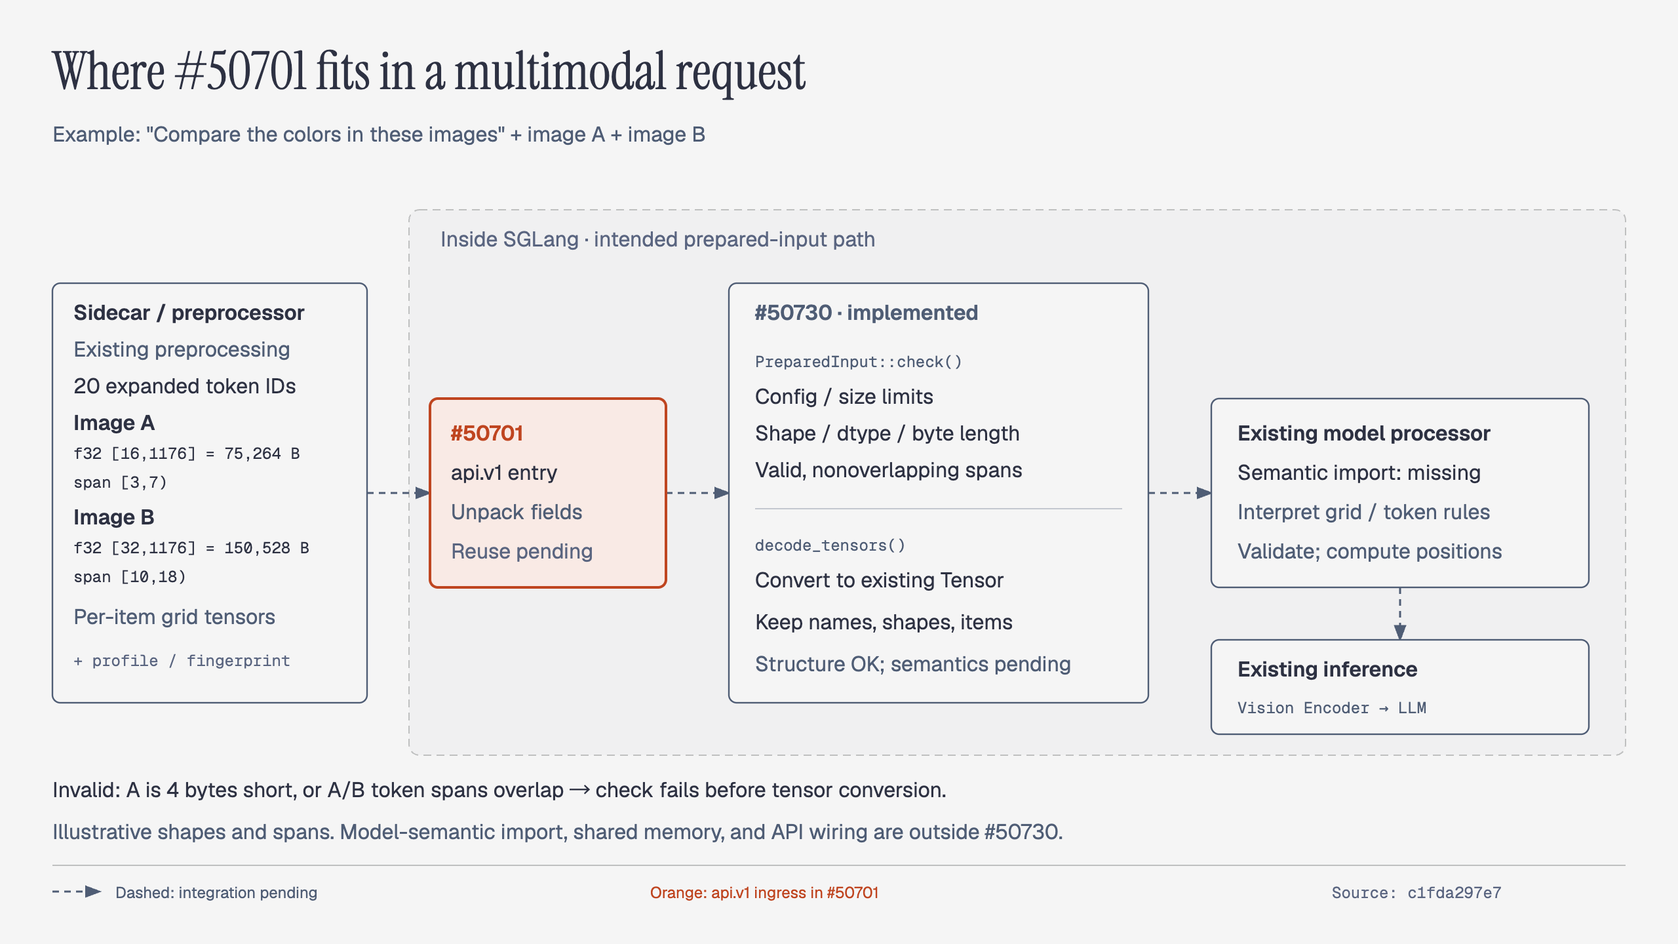
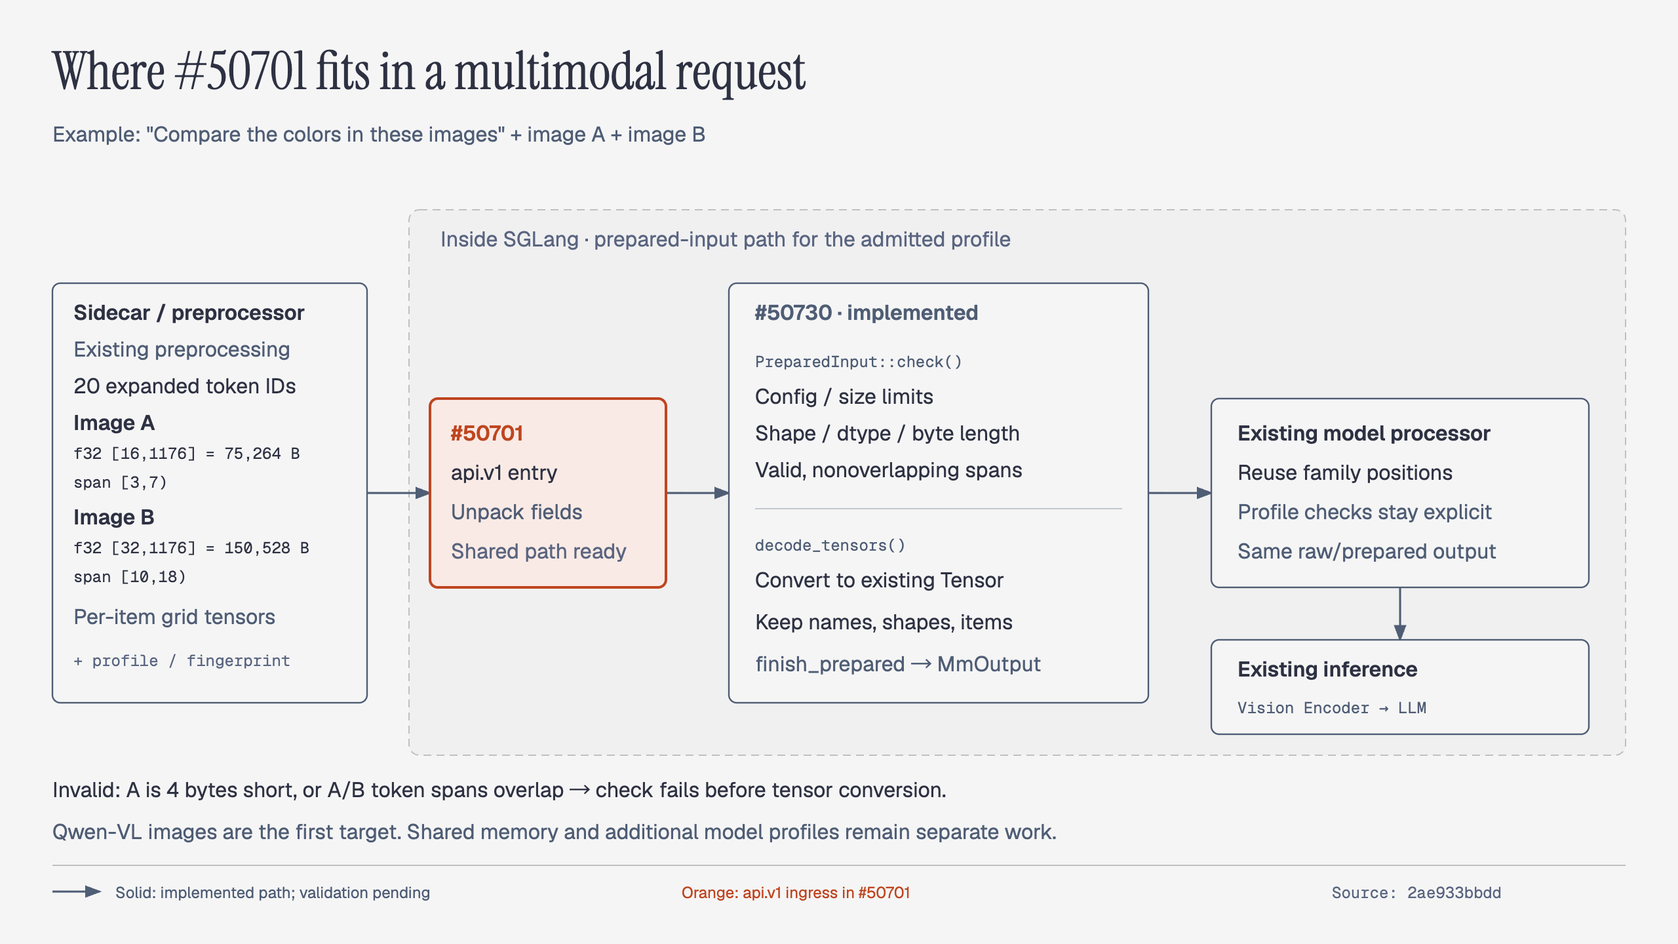
docs: Show shared processor completion in prepared input figures

diff --git a/assets/prepared-multimodal/50730-position-en.html b/assets/prepared-multimodal/50730-position-en.html
@@ -1,17 +1,17 @@
 <!DOCTYPE html><html lang="en"><head><meta charset="utf-8"><meta name="viewport" content="width=device-width,initial-scale=1"><title>Where #50730 fits in a multimodal request</title><link href="https://fonts.googleapis.com/css2?family=Instrument+Serif:ital@0;1&family=Geist:wght@400;500;600&family=Geist+Mono:wght@400;500;600&family=Noto+Serif:ital@0;1&family=Noto+Sans+KR:wght@400;500;600&family=Noto+Serif+KR:wght@400&family=Noto+Sans+TC:wght@400;500;600&family=Noto+Serif+TC:wght@400&display=swap" rel="stylesheet">
 <style>*,*::before,*::after{box-sizing:border-box}body{margin:0;padding:24px;background:#f5f5f5;color:#2d3142;font-family:'Geist','PingFang SC',sans-serif}.frame{max-width:1280px;margin:auto}.diagram-container{width:100%;overflow-x:auto}svg{display:block;width:100%;min-width:1280px}@media print{body{padding:0}.diagram-container{overflow-x:visible}svg{min-width:0}}</style></head><body><main class="frame"><div class="diagram-container"><svg id="50730-position-en-root" viewBox="0 0 1280 720" xmlns="http://www.w3.org/2000/svg" role="img" aria-labelledby="50730-position-en-title 50730-position-en-desc">
 <title id="50730-position-en-title">Where #50730 fits in a multimodal request</title>
-<desc id="50730-position-en-desc">A text-and-two-images request illustrates common structural checks and tensor decoding; dashed connections and model-semantic import are not implemented yet.</desc>
+<desc id="50730-position-en-desc">A two-image request passes through api.v1, shared tensor checks and the generic completion bridge, then the configured processor positions and common inference handoff; runtime validation is pending.</desc>
 <defs><marker id="arrow" markerWidth="8" markerHeight="6" refX="7" refY="3" orient="auto"><polygon points="0 0,8 3,0 6" fill="#4f5d75"/></marker></defs>
 <rect width="1280" height="720" fill="#f5f5f5"/>
 <text x="40" y="68" fill="#2d3142" font-family="&#x27;Instrument Serif&#x27;, &#x27;Noto Serif&#x27;, &#x27;Songti SC&#x27;, serif" font-size="40" font-weight="400">Where #50730 fits in a multimodal request</text>
 <text x="40" y="108" fill="#4f5d75" font-family="&#x27;Geist&#x27;, &#x27;PingFang SC&#x27;, &#x27;Noto Sans SC&#x27;, &#x27;Microsoft YaHei&#x27;, sans-serif" font-size="16" font-weight="400">Example: "Compare the colors in these images" + image A + image B</text>
 <rect x="312" y="160" width="928" height="416" rx="8" fill="#f0f0f1" stroke="#bfc0c0" stroke-dasharray="6 4"/>
-<text x="336" y="188" fill="#5a6580" font-family="&#x27;Geist&#x27;, &#x27;PingFang SC&#x27;, &#x27;Noto Sans SC&#x27;, &#x27;Microsoft YaHei&#x27;, sans-serif" font-size="16" font-weight="400">Inside SGLang · intended prepared-input path</text>
-<line x1="280" y1="376" x2="328" y2="376" stroke="#4f5d75" stroke-width="1.6" stroke-dasharray="5 4" marker-end="url(#arrow)"/>
-<line x1="508" y1="376" x2="556" y2="376" stroke="#4f5d75" stroke-width="1.6" stroke-dasharray="5 4" marker-end="url(#arrow)"/>
-<line x1="876" y1="376" x2="924" y2="376" stroke="#4f5d75" stroke-width="1.6" stroke-dasharray="5 4" marker-end="url(#arrow)"/>
-<line x1="1068" y1="448" x2="1068" y2="488" stroke="#4f5d75" stroke-width="1.6" stroke-dasharray="5 4" marker-end="url(#arrow)"/>
+<text x="336" y="188" fill="#5a6580" font-family="&#x27;Geist&#x27;, &#x27;PingFang SC&#x27;, &#x27;Noto Sans SC&#x27;, &#x27;Microsoft YaHei&#x27;, sans-serif" font-size="16" font-weight="400">Inside SGLang · prepared-input path for the admitted profile</text>
+<line x1="280" y1="376" x2="328" y2="376" stroke="#4f5d75" stroke-width="1.6" marker-end="url(#arrow)"/>
+<line x1="508" y1="376" x2="556" y2="376" stroke="#4f5d75" stroke-width="1.6" marker-end="url(#arrow)"/>
+<line x1="876" y1="376" x2="924" y2="376" stroke="#4f5d75" stroke-width="1.6" marker-end="url(#arrow)"/>
+<line x1="1068" y1="448" x2="1068" y2="488" stroke="#4f5d75" stroke-width="1.6" marker-end="url(#arrow)"/>
 <rect id="external-preprocessor" data-node-id="external-preprocessor" x="40" y="216" width="240" height="320" rx="6" fill="#f5f5f5" stroke="#4f5d75" stroke-width="1.2"/>
 <text x="56" y="244" fill="#2d3142" font-family="&#x27;Geist&#x27;, &#x27;PingFang SC&#x27;, &#x27;Noto Sans SC&#x27;, &#x27;Microsoft YaHei&#x27;, sans-serif" font-size="16" font-weight="600">Sidecar / preprocessor</text>
 <text x="56" y="272" fill="#4f5d75" font-family="&#x27;Geist&#x27;, &#x27;PingFang SC&#x27;, &#x27;Noto Sans SC&#x27;, &#x27;Microsoft YaHei&#x27;, sans-serif" font-size="16" font-weight="400">Existing preprocessing</text>
@@ -28,7 +28,7 @@
 <text x="344" y="336" fill="#2d3142" font-family="&#x27;Geist&#x27;, &#x27;PingFang SC&#x27;, &#x27;Noto Sans SC&#x27;, &#x27;Microsoft YaHei&#x27;, sans-serif" font-size="16" font-weight="600">#50701</text>
 <text x="344" y="366" fill="#2d3142" font-family="&#x27;Geist&#x27;, &#x27;PingFang SC&#x27;, &#x27;Noto Sans SC&#x27;, &#x27;Microsoft YaHei&#x27;, sans-serif" font-size="16" font-weight="400">api.v1 entry</text>
 <text x="344" y="396" fill="#4f5d75" font-family="&#x27;Geist&#x27;, &#x27;PingFang SC&#x27;, &#x27;Noto Sans SC&#x27;, &#x27;Microsoft YaHei&#x27;, sans-serif" font-size="16" font-weight="400">Unpack fields</text>
-<text x="344" y="426" fill="#5a6580" font-family="&#x27;Geist&#x27;, &#x27;PingFang SC&#x27;, &#x27;Noto Sans SC&#x27;, &#x27;Microsoft YaHei&#x27;, sans-serif" font-size="16" font-weight="400">Not wired yet</text>
+<text x="344" y="426" fill="#5a6580" font-family="&#x27;Geist&#x27;, &#x27;PingFang SC&#x27;, &#x27;Noto Sans SC&#x27;, &#x27;Microsoft YaHei&#x27;, sans-serif" font-size="16" font-weight="400">Shared path ready</text>
 <rect id="prepared-foundation" data-node-id="prepared-foundation" x="556" y="216" width="320" height="320" rx="6" fill="#f9eae5" stroke="#bf4520" stroke-width="2"/>
 <text x="576" y="244" fill="#bf4520" font-family="&#x27;Geist&#x27;, &#x27;PingFang SC&#x27;, &#x27;Noto Sans SC&#x27;, &#x27;Microsoft YaHei&#x27;, sans-serif" font-size="16" font-weight="600">#50730 · implemented</text>
 <text x="576" y="280" fill="#bf4520" font-family="&#x27;Geist Mono&#x27;, &#x27;SFMono-Regular&#x27;, monospace" font-size="12" font-weight="400">PreparedInput::check()</text>
@@ -39,20 +39,20 @@
 <text x="576" y="420" fill="#bf4520" font-family="&#x27;Geist Mono&#x27;, &#x27;SFMono-Regular&#x27;, monospace" font-size="12" font-weight="400">decode_tensors()</text>
 <text x="576" y="448" fill="#2d3142" font-family="&#x27;Geist&#x27;, &#x27;PingFang SC&#x27;, &#x27;Noto Sans SC&#x27;, &#x27;Microsoft YaHei&#x27;, sans-serif" font-size="16" font-weight="400">Convert to existing Tensor</text>
 <text x="576" y="480" fill="#2d3142" font-family="&#x27;Geist&#x27;, &#x27;PingFang SC&#x27;, &#x27;Noto Sans SC&#x27;, &#x27;Microsoft YaHei&#x27;, sans-serif" font-size="16" font-weight="400">Keep names, shapes, items</text>
-<text x="576" y="512" fill="#bf4520" font-family="&#x27;Geist&#x27;, &#x27;PingFang SC&#x27;, &#x27;Noto Sans SC&#x27;, &#x27;Microsoft YaHei&#x27;, sans-serif" font-size="16" font-weight="400">Structure OK; semantics pending</text>
+<text x="576" y="512" fill="#bf4520" font-family="&#x27;Geist&#x27;, &#x27;PingFang SC&#x27;, &#x27;Noto Sans SC&#x27;, &#x27;Microsoft YaHei&#x27;, sans-serif" font-size="16" font-weight="400">finish_prepared → MmOutput</text>
 <rect id="processor-semantic-import" data-node-id="processor-semantic-import" x="924" y="304" width="288" height="144" rx="6" fill="#f5f5f5" stroke="#4f5d75" stroke-width="1.2"/>
 <text x="944" y="336" fill="#2d3142" font-family="&#x27;Geist&#x27;, &#x27;PingFang SC&#x27;, &#x27;Noto Sans SC&#x27;, &#x27;Microsoft YaHei&#x27;, sans-serif" font-size="16" font-weight="600">Existing model processor</text>
-<text x="944" y="366" fill="#2d3142" font-family="&#x27;Geist&#x27;, &#x27;PingFang SC&#x27;, &#x27;Noto Sans SC&#x27;, &#x27;Microsoft YaHei&#x27;, sans-serif" font-size="16" font-weight="400">Semantic import: missing</text>
-<text x="944" y="396" fill="#4f5d75" font-family="&#x27;Geist&#x27;, &#x27;PingFang SC&#x27;, &#x27;Noto Sans SC&#x27;, &#x27;Microsoft YaHei&#x27;, sans-serif" font-size="16" font-weight="400">Interpret grid / token rules</text>
-<text x="944" y="426" fill="#4f5d75" font-family="&#x27;Geist&#x27;, &#x27;PingFang SC&#x27;, &#x27;Noto Sans SC&#x27;, &#x27;Microsoft YaHei&#x27;, sans-serif" font-size="16" font-weight="400">Validate; compute positions</text>
+<text x="944" y="366" fill="#2d3142" font-family="&#x27;Geist&#x27;, &#x27;PingFang SC&#x27;, &#x27;Noto Sans SC&#x27;, &#x27;Microsoft YaHei&#x27;, sans-serif" font-size="16" font-weight="400">Reuse family positions</text>
+<text x="944" y="396" fill="#4f5d75" font-family="&#x27;Geist&#x27;, &#x27;PingFang SC&#x27;, &#x27;Noto Sans SC&#x27;, &#x27;Microsoft YaHei&#x27;, sans-serif" font-size="16" font-weight="400">Profile checks stay explicit</text>
+<text x="944" y="426" fill="#4f5d75" font-family="&#x27;Geist&#x27;, &#x27;PingFang SC&#x27;, &#x27;Noto Sans SC&#x27;, &#x27;Microsoft YaHei&#x27;, sans-serif" font-size="16" font-weight="400">Same raw/prepared output</text>
 <rect id="existing-inference" data-node-id="existing-inference" x="924" y="488" width="288" height="72" rx="6" fill="#f5f5f5" stroke="#4f5d75" stroke-width="1.2"/>
 <text x="944" y="516" fill="#2d3142" font-family="&#x27;Geist&#x27;, &#x27;PingFang SC&#x27;, &#x27;Noto Sans SC&#x27;, &#x27;Microsoft YaHei&#x27;, sans-serif" font-size="16" font-weight="600">Existing inference</text>
 <text x="944" y="544" fill="#4f5d75" font-family="&#x27;Geist Mono&#x27;, &#x27;SFMono-Regular&#x27;, monospace" font-size="12" font-weight="400">Vision Encoder → LLM</text>
 <text x="40" y="608" fill="#2d3142" font-family="&#x27;Geist&#x27;, &#x27;PingFang SC&#x27;, &#x27;Noto Sans SC&#x27;, &#x27;Microsoft YaHei&#x27;, sans-serif" font-size="16" font-weight="400">Invalid: A is 4 bytes short, or A/B token spans overlap → check fails before tensor conversion.</text>
-<text x="40" y="640" fill="#4f5d75" font-family="&#x27;Geist&#x27;, &#x27;PingFang SC&#x27;, &#x27;Noto Sans SC&#x27;, &#x27;Microsoft YaHei&#x27;, sans-serif" font-size="16" font-weight="400">Illustrative shapes and spans. Model-semantic import, shared memory, and API wiring are outside #50730.</text>
+<text x="40" y="640" fill="#4f5d75" font-family="&#x27;Geist&#x27;, &#x27;PingFang SC&#x27;, &#x27;Noto Sans SC&#x27;, &#x27;Microsoft YaHei&#x27;, sans-serif" font-size="16" font-weight="400">Qwen-VL images are the first target. Shared memory and additional model profiles remain separate work.</text>
 <line x1="40" y1="660" x2="1240" y2="660" stroke="#bfc0c0"/>
-<line x1="40" y1="680" x2="76" y2="680" stroke="#4f5d75" stroke-width="1.6" stroke-dasharray="5 4" marker-end="url(#arrow)"/>
-<text x="88" y="685" fill="#4f5d75" font-family="&#x27;Geist&#x27;, &#x27;PingFang SC&#x27;, &#x27;Noto Sans SC&#x27;, &#x27;Microsoft YaHei&#x27;, sans-serif" font-size="12" font-weight="400">Dashed: integration pending</text>
-<text x="496" y="685" fill="#bf4520" font-family="&#x27;Geist&#x27;, &#x27;PingFang SC&#x27;, &#x27;Noto Sans SC&#x27;, &#x27;Microsoft YaHei&#x27;, sans-serif" font-size="12" font-weight="400">Orange: implemented library; CPU checks passed</text>
-<text x="1016" y="685" fill="#5a6580" font-family="&#x27;Geist Mono&#x27;, &#x27;SFMono-Regular&#x27;, monospace" font-size="12" font-weight="400">Source: 0910b7ff52</text>
+<line x1="40" y1="680" x2="76" y2="680" stroke="#4f5d75" stroke-width="1.6" marker-end="url(#arrow)"/>
+<text x="88" y="685" fill="#4f5d75" font-family="&#x27;Geist&#x27;, &#x27;PingFang SC&#x27;, &#x27;Noto Sans SC&#x27;, &#x27;Microsoft YaHei&#x27;, sans-serif" font-size="12" font-weight="400">Solid: implemented path; validation pending</text>
+<text x="520" y="685" fill="#bf4520" font-family="&#x27;Geist&#x27;, &#x27;PingFang SC&#x27;, &#x27;Noto Sans SC&#x27;, &#x27;Microsoft YaHei&#x27;, sans-serif" font-size="12" font-weight="400">Orange: common checks + completion bridge</text>
+<text x="1016" y="685" fill="#5a6580" font-family="&#x27;Geist Mono&#x27;, &#x27;SFMono-Regular&#x27;, monospace" font-size="12" font-weight="400">Source: 386247f28a</text>
 </svg></div></main></body></html>

diff --git a/assets/prepared-multimodal/50701-position-en.html b/assets/prepared-multimodal/50701-position-en.html
@@ -1,17 +1,17 @@
 <!DOCTYPE html><html lang="en"><head><meta charset="utf-8"><meta name="viewport" content="width=device-width,initial-scale=1"><title>Where #50701 fits in a multimodal request</title><link href="https://fonts.googleapis.com/css2?family=Instrument+Serif:ital@0;1&family=Geist:wght@400;500;600&family=Geist+Mono:wght@400;500;600&family=Noto+Serif:ital@0;1&family=Noto+Sans+KR:wght@400;500;600&family=Noto+Serif+KR:wght@400&family=Noto+Sans+TC:wght@400;500;600&family=Noto+Serif+TC:wght@400&display=swap" rel="stylesheet">
 <style>*,*::before,*::after{box-sizing:border-box}body{margin:0;padding:24px;background:#f5f5f5;color:#2d3142;font-family:'Geist','PingFang SC',sans-serif}.frame{max-width:1280px;margin:auto}.diagram-container{width:100%;overflow-x:auto}svg{display:block;width:100%;min-width:1280px}@media print{body{padding:0}.diagram-container{overflow-x:visible}svg{min-width:0}}</style></head><body><main class="frame"><div class="diagram-container"><svg id="50701-position-en-root" viewBox="0 0 1280 720" xmlns="http://www.w3.org/2000/svg" role="img" aria-labelledby="50701-position-en-title 50701-position-en-desc">
 <title id="50701-position-en-title">Where #50701 fits in a multimodal request</title>
-<desc id="50701-position-en-desc">A text-and-two-images request highlights the api.v1 ingress; reuse of the common structural library and processor-semantic import remain pending.</desc>
+<desc id="50701-position-en-desc">A two-image request passes through api.v1, shared tensor checks and the generic completion bridge, then the configured processor positions and common inference handoff; runtime validation is pending.</desc>
 <defs><marker id="arrow" markerWidth="8" markerHeight="6" refX="7" refY="3" orient="auto"><polygon points="0 0,8 3,0 6" fill="#4f5d75"/></marker></defs>
 <rect width="1280" height="720" fill="#f5f5f5"/>
 <text x="40" y="68" fill="#2d3142" font-family="&#x27;Instrument Serif&#x27;, &#x27;Noto Serif&#x27;, &#x27;Songti SC&#x27;, serif" font-size="40" font-weight="400">Where #50701 fits in a multimodal request</text>
 <text x="40" y="108" fill="#4f5d75" font-family="&#x27;Geist&#x27;, &#x27;PingFang SC&#x27;, &#x27;Noto Sans SC&#x27;, &#x27;Microsoft YaHei&#x27;, sans-serif" font-size="16" font-weight="400">Example: "Compare the colors in these images" + image A + image B</text>
 <rect x="312" y="160" width="928" height="416" rx="8" fill="#f0f0f1" stroke="#bfc0c0" stroke-dasharray="6 4"/>
-<text x="336" y="188" fill="#5a6580" font-family="&#x27;Geist&#x27;, &#x27;PingFang SC&#x27;, &#x27;Noto Sans SC&#x27;, &#x27;Microsoft YaHei&#x27;, sans-serif" font-size="16" font-weight="400">Inside SGLang · intended prepared-input path</text>
-<line x1="280" y1="376" x2="328" y2="376" stroke="#4f5d75" stroke-width="1.6" stroke-dasharray="5 4" marker-end="url(#arrow)"/>
-<line x1="508" y1="376" x2="556" y2="376" stroke="#4f5d75" stroke-width="1.6" stroke-dasharray="5 4" marker-end="url(#arrow)"/>
-<line x1="876" y1="376" x2="924" y2="376" stroke="#4f5d75" stroke-width="1.6" stroke-dasharray="5 4" marker-end="url(#arrow)"/>
-<line x1="1068" y1="448" x2="1068" y2="488" stroke="#4f5d75" stroke-width="1.6" stroke-dasharray="5 4" marker-end="url(#arrow)"/>
+<text x="336" y="188" fill="#5a6580" font-family="&#x27;Geist&#x27;, &#x27;PingFang SC&#x27;, &#x27;Noto Sans SC&#x27;, &#x27;Microsoft YaHei&#x27;, sans-serif" font-size="16" font-weight="400">Inside SGLang · prepared-input path for the admitted profile</text>
+<line x1="280" y1="376" x2="328" y2="376" stroke="#4f5d75" stroke-width="1.6" marker-end="url(#arrow)"/>
+<line x1="508" y1="376" x2="556" y2="376" stroke="#4f5d75" stroke-width="1.6" marker-end="url(#arrow)"/>
+<line x1="876" y1="376" x2="924" y2="376" stroke="#4f5d75" stroke-width="1.6" marker-end="url(#arrow)"/>
+<line x1="1068" y1="448" x2="1068" y2="488" stroke="#4f5d75" stroke-width="1.6" marker-end="url(#arrow)"/>
 <rect id="external-preprocessor" data-node-id="external-preprocessor" x="40" y="216" width="240" height="320" rx="6" fill="#f5f5f5" stroke="#4f5d75" stroke-width="1.2"/>
 <text x="56" y="244" fill="#2d3142" font-family="&#x27;Geist&#x27;, &#x27;PingFang SC&#x27;, &#x27;Noto Sans SC&#x27;, &#x27;Microsoft YaHei&#x27;, sans-serif" font-size="16" font-weight="600">Sidecar / preprocessor</text>
 <text x="56" y="272" fill="#4f5d75" font-family="&#x27;Geist&#x27;, &#x27;PingFang SC&#x27;, &#x27;Noto Sans SC&#x27;, &#x27;Microsoft YaHei&#x27;, sans-serif" font-size="16" font-weight="400">Existing preprocessing</text>
@@ -28,7 +28,7 @@
 <text x="344" y="336" fill="#bf4520" font-family="&#x27;Geist&#x27;, &#x27;PingFang SC&#x27;, &#x27;Noto Sans SC&#x27;, &#x27;Microsoft YaHei&#x27;, sans-serif" font-size="16" font-weight="600">#50701</text>
 <text x="344" y="366" fill="#2d3142" font-family="&#x27;Geist&#x27;, &#x27;PingFang SC&#x27;, &#x27;Noto Sans SC&#x27;, &#x27;Microsoft YaHei&#x27;, sans-serif" font-size="16" font-weight="400">api.v1 entry</text>
 <text x="344" y="396" fill="#4f5d75" font-family="&#x27;Geist&#x27;, &#x27;PingFang SC&#x27;, &#x27;Noto Sans SC&#x27;, &#x27;Microsoft YaHei&#x27;, sans-serif" font-size="16" font-weight="400">Unpack fields</text>
-<text x="344" y="426" fill="#5a6580" font-family="&#x27;Geist&#x27;, &#x27;PingFang SC&#x27;, &#x27;Noto Sans SC&#x27;, &#x27;Microsoft YaHei&#x27;, sans-serif" font-size="16" font-weight="400">Reuse pending</text>
+<text x="344" y="426" fill="#5a6580" font-family="&#x27;Geist&#x27;, &#x27;PingFang SC&#x27;, &#x27;Noto Sans SC&#x27;, &#x27;Microsoft YaHei&#x27;, sans-serif" font-size="16" font-weight="400">Shared path ready</text>
 <rect id="prepared-foundation" data-node-id="prepared-foundation" x="556" y="216" width="320" height="320" rx="6" fill="#f5f5f5" stroke="#4f5d75" stroke-width="1.2"/>
 <text x="576" y="244" fill="#4f5d75" font-family="&#x27;Geist&#x27;, &#x27;PingFang SC&#x27;, &#x27;Noto Sans SC&#x27;, &#x27;Microsoft YaHei&#x27;, sans-serif" font-size="16" font-weight="600">#50730 · implemented</text>
 <text x="576" y="280" fill="#4f5d75" font-family="&#x27;Geist Mono&#x27;, &#x27;SFMono-Regular&#x27;, monospace" font-size="12" font-weight="400">PreparedInput::check()</text>
@@ -39,20 +39,20 @@
 <text x="576" y="420" fill="#4f5d75" font-family="&#x27;Geist Mono&#x27;, &#x27;SFMono-Regular&#x27;, monospace" font-size="12" font-weight="400">decode_tensors()</text>
 <text x="576" y="448" fill="#2d3142" font-family="&#x27;Geist&#x27;, &#x27;PingFang SC&#x27;, &#x27;Noto Sans SC&#x27;, &#x27;Microsoft YaHei&#x27;, sans-serif" font-size="16" font-weight="400">Convert to existing Tensor</text>
 <text x="576" y="480" fill="#2d3142" font-family="&#x27;Geist&#x27;, &#x27;PingFang SC&#x27;, &#x27;Noto Sans SC&#x27;, &#x27;Microsoft YaHei&#x27;, sans-serif" font-size="16" font-weight="400">Keep names, shapes, items</text>
-<text x="576" y="512" fill="#4f5d75" font-family="&#x27;Geist&#x27;, &#x27;PingFang SC&#x27;, &#x27;Noto Sans SC&#x27;, &#x27;Microsoft YaHei&#x27;, sans-serif" font-size="16" font-weight="400">Structure OK; semantics pending</text>
+<text x="576" y="512" fill="#4f5d75" font-family="&#x27;Geist&#x27;, &#x27;PingFang SC&#x27;, &#x27;Noto Sans SC&#x27;, &#x27;Microsoft YaHei&#x27;, sans-serif" font-size="16" font-weight="400">finish_prepared → MmOutput</text>
 <rect id="processor-semantic-import" data-node-id="processor-semantic-import" x="924" y="304" width="288" height="144" rx="6" fill="#f5f5f5" stroke="#4f5d75" stroke-width="1.2"/>
 <text x="944" y="336" fill="#2d3142" font-family="&#x27;Geist&#x27;, &#x27;PingFang SC&#x27;, &#x27;Noto Sans SC&#x27;, &#x27;Microsoft YaHei&#x27;, sans-serif" font-size="16" font-weight="600">Existing model processor</text>
-<text x="944" y="366" fill="#2d3142" font-family="&#x27;Geist&#x27;, &#x27;PingFang SC&#x27;, &#x27;Noto Sans SC&#x27;, &#x27;Microsoft YaHei&#x27;, sans-serif" font-size="16" font-weight="400">Semantic import: missing</text>
-<text x="944" y="396" fill="#4f5d75" font-family="&#x27;Geist&#x27;, &#x27;PingFang SC&#x27;, &#x27;Noto Sans SC&#x27;, &#x27;Microsoft YaHei&#x27;, sans-serif" font-size="16" font-weight="400">Interpret grid / token rules</text>
-<text x="944" y="426" fill="#4f5d75" font-family="&#x27;Geist&#x27;, &#x27;PingFang SC&#x27;, &#x27;Noto Sans SC&#x27;, &#x27;Microsoft YaHei&#x27;, sans-serif" font-size="16" font-weight="400">Validate; compute positions</text>
+<text x="944" y="366" fill="#2d3142" font-family="&#x27;Geist&#x27;, &#x27;PingFang SC&#x27;, &#x27;Noto Sans SC&#x27;, &#x27;Microsoft YaHei&#x27;, sans-serif" font-size="16" font-weight="400">Reuse family positions</text>
+<text x="944" y="396" fill="#4f5d75" font-family="&#x27;Geist&#x27;, &#x27;PingFang SC&#x27;, &#x27;Noto Sans SC&#x27;, &#x27;Microsoft YaHei&#x27;, sans-serif" font-size="16" font-weight="400">Profile checks stay explicit</text>
+<text x="944" y="426" fill="#4f5d75" font-family="&#x27;Geist&#x27;, &#x27;PingFang SC&#x27;, &#x27;Noto Sans SC&#x27;, &#x27;Microsoft YaHei&#x27;, sans-serif" font-size="16" font-weight="400">Same raw/prepared output</text>
 <rect id="existing-inference" data-node-id="existing-inference" x="924" y="488" width="288" height="72" rx="6" fill="#f5f5f5" stroke="#4f5d75" stroke-width="1.2"/>
 <text x="944" y="516" fill="#2d3142" font-family="&#x27;Geist&#x27;, &#x27;PingFang SC&#x27;, &#x27;Noto Sans SC&#x27;, &#x27;Microsoft YaHei&#x27;, sans-serif" font-size="16" font-weight="600">Existing inference</text>
 <text x="944" y="544" fill="#4f5d75" font-family="&#x27;Geist Mono&#x27;, &#x27;SFMono-Regular&#x27;, monospace" font-size="12" font-weight="400">Vision Encoder → LLM</text>
 <text x="40" y="608" fill="#2d3142" font-family="&#x27;Geist&#x27;, &#x27;PingFang SC&#x27;, &#x27;Noto Sans SC&#x27;, &#x27;Microsoft YaHei&#x27;, sans-serif" font-size="16" font-weight="400">Invalid: A is 4 bytes short, or A/B token spans overlap → check fails before tensor conversion.</text>
-<text x="40" y="640" fill="#4f5d75" font-family="&#x27;Geist&#x27;, &#x27;PingFang SC&#x27;, &#x27;Noto Sans SC&#x27;, &#x27;Microsoft YaHei&#x27;, sans-serif" font-size="16" font-weight="400">Illustrative shapes and spans. Model-semantic import, shared memory, and API wiring are outside #50730.</text>
+<text x="40" y="640" fill="#4f5d75" font-family="&#x27;Geist&#x27;, &#x27;PingFang SC&#x27;, &#x27;Noto Sans SC&#x27;, &#x27;Microsoft YaHei&#x27;, sans-serif" font-size="16" font-weight="400">Qwen-VL images are the first target. Shared memory and additional model profiles remain separate work.</text>
 <line x1="40" y1="660" x2="1240" y2="660" stroke="#bfc0c0"/>
-<line x1="40" y1="680" x2="76" y2="680" stroke="#4f5d75" stroke-width="1.6" stroke-dasharray="5 4" marker-end="url(#arrow)"/>
-<text x="88" y="685" fill="#4f5d75" font-family="&#x27;Geist&#x27;, &#x27;PingFang SC&#x27;, &#x27;Noto Sans SC&#x27;, &#x27;Microsoft YaHei&#x27;, sans-serif" font-size="12" font-weight="400">Dashed: integration pending</text>
-<text x="496" y="685" fill="#bf4520" font-family="&#x27;Geist&#x27;, &#x27;PingFang SC&#x27;, &#x27;Noto Sans SC&#x27;, &#x27;Microsoft YaHei&#x27;, sans-serif" font-size="12" font-weight="400">Orange: api.v1 ingress in #50701</text>
-<text x="1016" y="685" fill="#5a6580" font-family="&#x27;Geist Mono&#x27;, &#x27;SFMono-Regular&#x27;, monospace" font-size="12" font-weight="400">Source: c1fda297e7</text>
+<line x1="40" y1="680" x2="76" y2="680" stroke="#4f5d75" stroke-width="1.6" marker-end="url(#arrow)"/>
+<text x="88" y="685" fill="#4f5d75" font-family="&#x27;Geist&#x27;, &#x27;PingFang SC&#x27;, &#x27;Noto Sans SC&#x27;, &#x27;Microsoft YaHei&#x27;, sans-serif" font-size="12" font-weight="400">Solid: implemented path; validation pending</text>
+<text x="520" y="685" fill="#bf4520" font-family="&#x27;Geist&#x27;, &#x27;PingFang SC&#x27;, &#x27;Noto Sans SC&#x27;, &#x27;Microsoft YaHei&#x27;, sans-serif" font-size="12" font-weight="400">Orange: api.v1 ingress in #50701</text>
+<text x="1016" y="685" fill="#5a6580" font-family="&#x27;Geist Mono&#x27;, &#x27;SFMono-Regular&#x27;, monospace" font-size="12" font-weight="400">Source: 2ae933bbdd</text>
 </svg></div></main></body></html>
